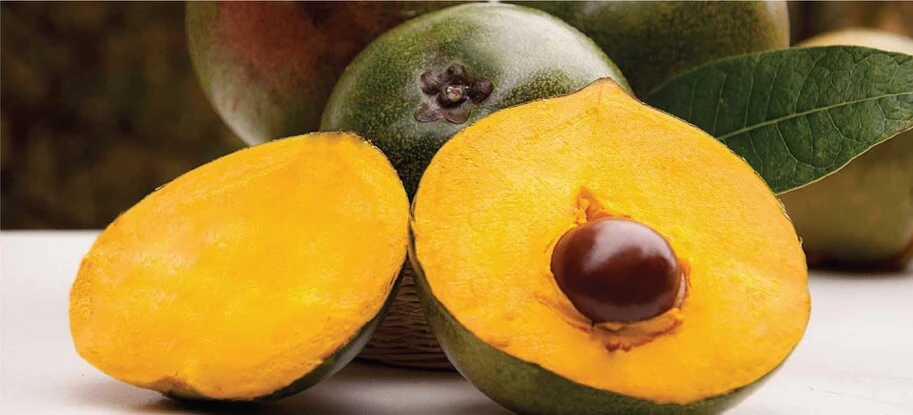
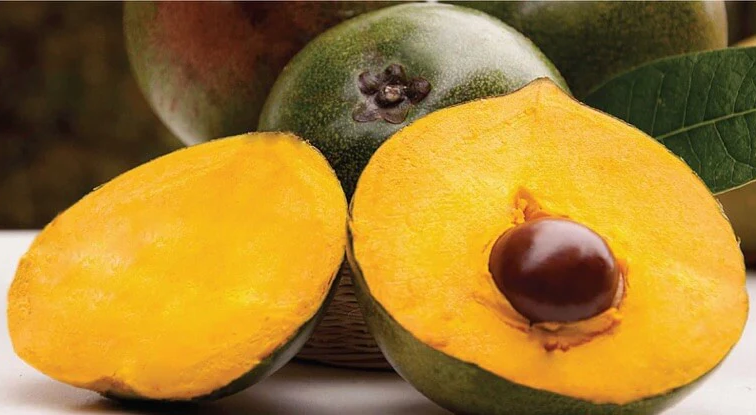
Fix Lightbox de Tazza : harmonie retrouvée

diff --git a/gallery.html b/gallery.html
@@ -150,7 +150,8 @@
     <!-- Gallery.html : Fruits tropicaux section START -->
     <div class="mt-5">
         <h2 class="section-title">Des fruits venus d'ailleurs</h2>
-        <p class="section-subtitle">Neuf fruits cultivés aux quatre coins du monde, aux noms chantants, <br>saveurs cachées, éclats tropicaux, délices d’ailleurs.</p>
+        <p class="section-subtitle">Neuf fruits cultivés aux quatre coins du monde, aux noms chantants, <br>saveurs
+            cachées, éclats tropicaux, délices d’ailleurs.</p>
     </div>
 
     <section class="masonry_section">
@@ -158,11 +159,11 @@
         <figure class="cell cell--1">
             <div class="masonry-item">
                 <div class="hover-card">
-                    <img src="images/exotiques/pitaya.jpg" alt="Pitaya" data-full="images/exotiques/pitaya.jpg"
-                        class="lightbox-trigger">
+                    <a href="images/exotiques/pitaya.jpg" data-lightbox="exotiques" data-title="Pitaya" alt="Pitaya">
+                        <img decoding="async" src="images/exotiques/pitaya.jpg" class="img-fluid rounded-3"></a>
                     <div class="hover-title">
                         <div class="fruit-name">Pitaya (Mexique et Amérique centrale)</div>
-                        <div class="fruit-poem">Sous la peau étoilée, une fraîcheur lunaire attend le goût.</div>
+                        <div class="fruit-poem">Sous la peau étoilée, une fraîcheur lunaire attise le goût.</div>
                     </div>
                 </div>
             </div>
@@ -171,8 +172,8 @@
         <figure class="cell cell--2">
             <div class="masonry-item">
                 <div class="hover-card">
-                    <img src="images/exotiques/marang.jpg" alt="Marang" data-full="images/exotiques/marang.jpg"
-                        class="lightbox-trigger">
+                    <a href="images/exotiques/marang.jpg" data-lightbox="exotiques" data-title="Marang" alt="Marang">
+                        <img decoding="async" src="images/exotiques/marang.jpg" class="img-fluid rounded-3"></a>
                     <div class="hover-title">
                         <div class="fruit-name">Marang (Bornéo, Asie du Sud-Est)</div>
                         <div class="fruit-poem">L’écorce épineuse cache une vapeur sucrée, prête à s’ouvrir.</div>
@@ -184,8 +185,8 @@
         <figure class="cell cell--3">
             <div class="masonry-item">
                 <div class="hover-card">
-                    <img src="images/exotiques/ramboutan.jpg" alt="Ramboutan"
-                        data-full="images/exotiques/ramboutan.jpg" class="lightbox-trigger">
+                    <a href="images/exotiques/ramboutan.jpg" data-lightbox="exotiques" data-title="Ramboutan" alt="Ramboutan">
+                        <img decoding="async" src="images/exotiques/ramboutan.jpg" class="img-fluid rounded-3"></a>
                     <div class="hover-title">
                         <div class="fruit-name">Ramboutan (Asie du Sud-Est)</div>
                         <div class="fruit-poem">Sous les flammes douces, une perle translucide.</div>
@@ -197,8 +198,8 @@
         <figure class="cell cell--4">
             <div class="masonry-item">
                 <div class="hover-card">
-                    <img src="images/exotiques/salak.jpg" alt="salak" data-full="images/exotiques/salak.jpg"
-                        class="lightbox-trigger">
+                    <a href="images/exotiques/salak.jpg" data-lightbox="exotiques" data-title="Salak" alt="Salak">
+                        <img decoding="async" src="images/exotiques/salak.jpg" class="img-fluid rounded-3"></a>
                     <div class="hover-title">
                         <div class="fruit-name">Salak (Thaïlande, Malaisie et Indonésie)</div>
                         <div class="fruit-poem">La peau serpente, mais le goût est sûr.</div>
@@ -210,11 +211,12 @@
         <figure class="cell cell--5">
             <div class="masonry-item">
                 <div class="hover-card">
-                    <img src="images/exotiques/jabuticaba.jpg" alt="Jabuticaba"
-                        data-full="images/exotiques/jabuticaba.jpg" class="lightbox-trigger">
+                    <a href="images/exotiques/jabuticaba.jpg" data-lightbox="exotiques" data-title="Jabuticaba" alt="Jabuticaba">
+                        <img decoding="async" src="images/exotiques/jabuticaba.jpg" class="img-fluid rounded-3"></a>
                     <div class="hover-title">
                         <div class="fruit-name">Jabuticaba (Brésil)</div>
-                        <div class="fruit-poem">Comme des perles sombres sur l’écorce, elles murmurent les secrets de la forêt.</div>
+                        <div class="fruit-poem">Comme des perles sombres sur l’écorce, elles murmurent les secrets de la
+                            forêt.</div>
                     </div>
                 </div>
             </div>
@@ -223,8 +225,8 @@
         <figure class="cell cell--6">
             <div class="masonry-item">
                 <div class="hover-card">
-                    <img src="images/exotiques/mangoustan.jpg" alt="salak" data-full="images/exotiques/mangoustan.jpg"
-                        class="lightbox-trigger">
+                    <a href="images/exotiques/mangoustan.jpg" data-lightbox="exotiques" data-title="Mangoustan" alt="Mangoustan">
+                        <img decoding="async" src="images/exotiques/mangoustan.jpg" class="img-fluid rounded-3"></a>
                     <div class="hover-title">
                         <div class="fruit-name">Mangoustan (Thaïlande, Malaisie et Indonésie)</div>
                         <div class="fruit-poem">Sous la coque violette, une douceur nacrée attend le gourmet."</div>
@@ -236,8 +238,8 @@
         <figure class="cell cell--7">
             <div class="masonry-item">
                 <div class="hover-card">
-                    <img src="images/exotiques/lucuma.webp" alt="Lucuma" data-full="images/exotiques/lucuma.jpg"
-                        class="lightbox-trigger">
+                    <a href="images/exotiques/lucuma.webp" data-lightbox="exotiques" data-title="Lucuma" alt="Lucuma">
+                        <img decoding="async" src="images/exotiques/lucuma.jpg" class="img-fluid rounded-3"></a>
                     <div class="hover-title">
                         <div class="fruit-name">Lucuma (Pérou)</div>
                         <div class="fruit-poem">Un cœur de gâteau attend, discret sous la peau mate.</div>
@@ -249,8 +251,8 @@
         <figure class="cell cell--8">
             <div class="masonry-item">
                 <div class="hover-card">
-                    <img src="images/exotiques/durian.jpg" alt="cherimoya" data-full="images/exotiques/durian.jpg"
-                        class="lightbox-trigger">
+                    <a href="images/exotiques/durian.jpg" data-lightbox="exotiques" data-title="Durian" alt="Durian">
+                        <img decoding="async" src="images/exotiques/durian.jpg" class="img-fluid rounded-3"></a>
                     <div class="hover-title">
                         <div class="fruit-name">Durian (Asie du Sud-Est)</div>
                         <div class="fruit-poem">Un parfum qui divise, une chair qui rassemble.</div>
@@ -262,8 +264,8 @@
         <figure class="cell cell--9">
             <div class="masonry-item">
                 <div class="hover-card">
-                    <img src="images/exotiques/cherimoya.jpg" alt="cherimoya" data-full="images/exotiques/cherimoya.jpg"
-                        class="lightbox-trigger">
+                    <a href="images/exotiques/cherimoya.jpg" data-lightbox="exotiques" data-title="Cherimoya" alt="Cherimoya">
+                        <img decoding="async" src="images/exotiques/cherimoya.jpg" class="img-fluid rounded-3"></a>
                     <div class="hover-title">
                         <div class="fruit-name">Cherimoya (Thaïlande)</div>
                         <div class="fruit-poem">La crème des montagnes, enveloppée d’écailles tendres.</div>
@@ -273,8 +275,6 @@
         </figure>
 
     </section>
-
-
 
     <!-- Gallery.html : Fruits tropicaux section EXIT -->
     <!-- =============================================================================== -->

diff --git a/js/main.js b/js/main.js
@@ -29,3 +29,4 @@ window.addEventListener('scroll', () => {
     footer.classList.remove('visible');
   }
 });
+
